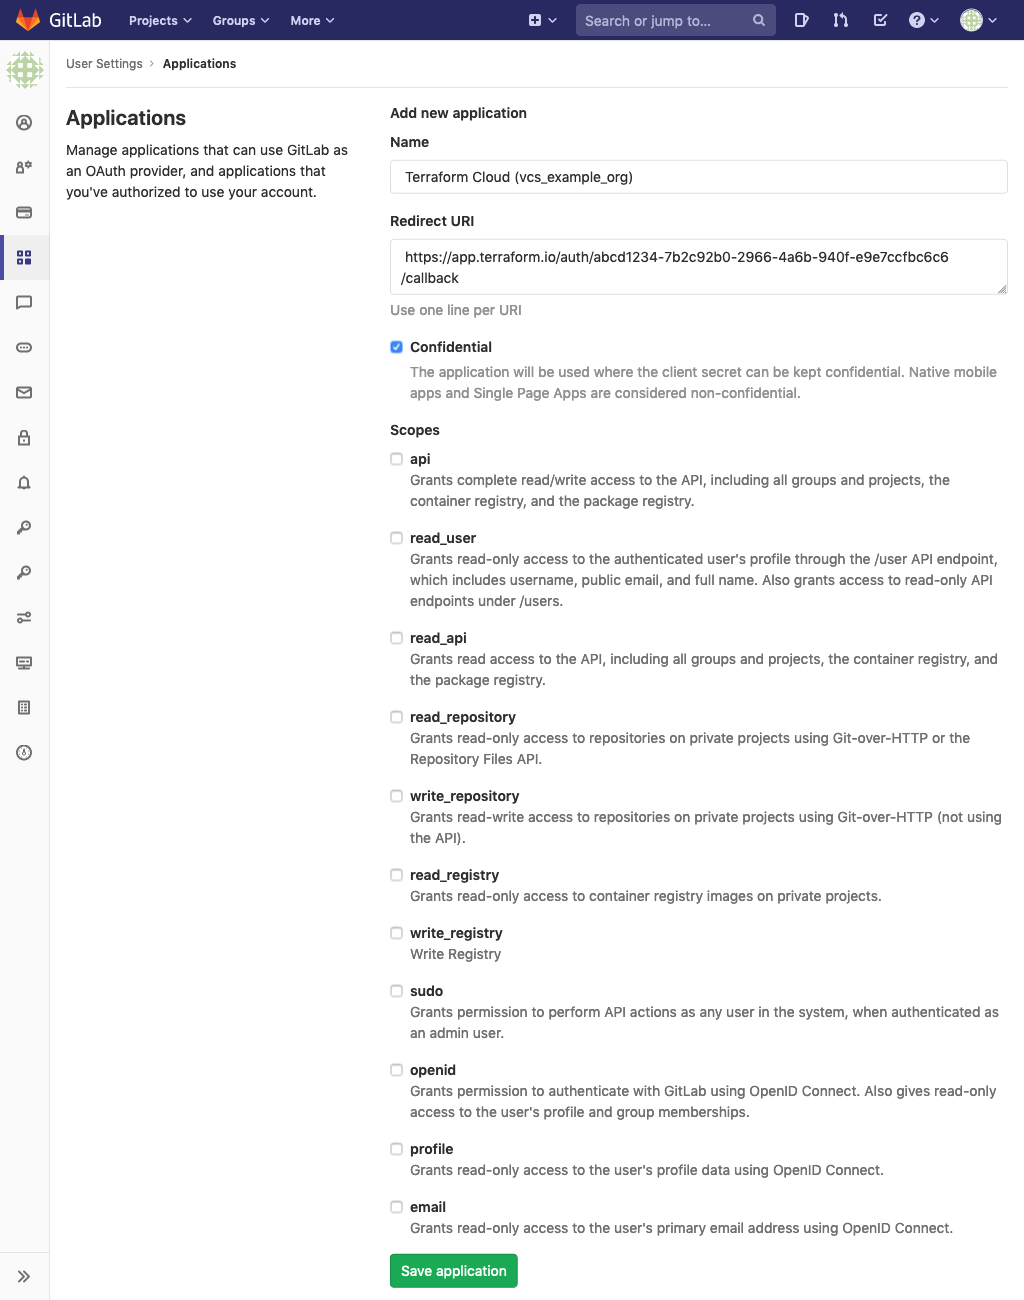
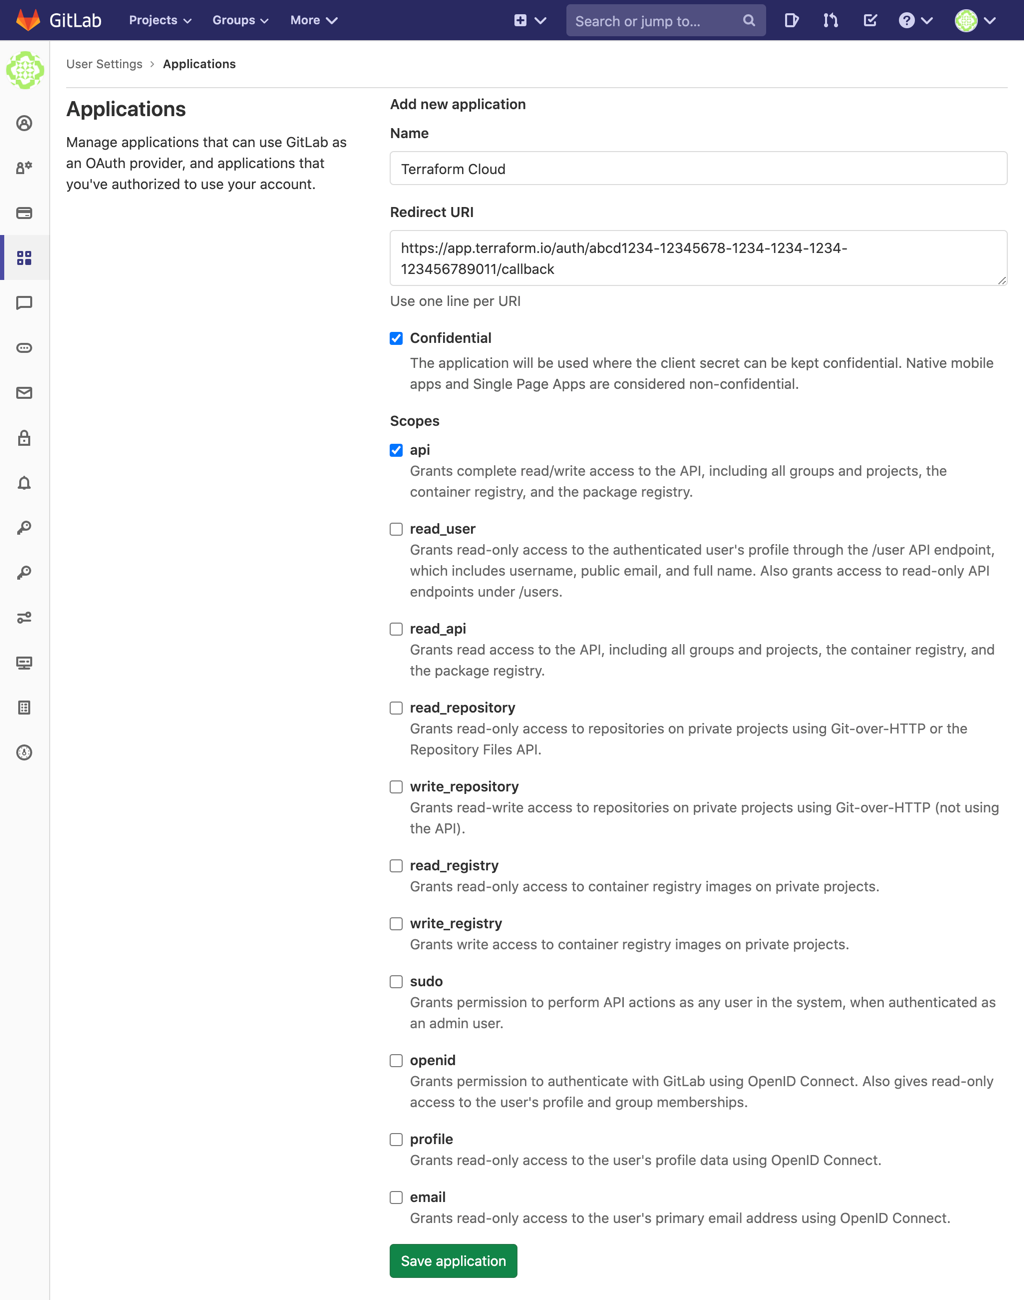
adding in scope changes

diff --git a/content/source/docs/cloud/vcs/gitlab-eece.html.md b/content/source/docs/cloud/vcs/gitlab-eece.html.md
@@ -13,12 +13,12 @@ Configuring a new VCS provider requires permission to manage VCS settings for th
 
 Connecting Terraform Cloud to your VCS involves four steps:
 
-On your VCS | On Terraform Cloud
---|--
-&nbsp; | Create a new connection in Terraform Cloud. Get redirect URI.
-Register your Terraform Cloud organization as a new app. Provide redirect URI. Get ID and key. | &nbsp;
-&nbsp;  | Provide Terraform Cloud with application ID and secret. Request VCS access.
-Approve access request. | &nbsp;
+| On your VCS                                                                                    | On Terraform Cloud                                                          |
+| ---------------------------------------------------------------------------------------------- | --------------------------------------------------------------------------- |
+| &nbsp;                                                                                         | Create a new connection in Terraform Cloud. Get redirect URI.               |
+| Register your Terraform Cloud organization as a new app. Provide redirect URI. Get ID and key. | &nbsp;                                                                      |
+| &nbsp;                                                                                         | Provide Terraform Cloud with application ID and secret. Request VCS access. |
+| Approve access request.                                                                        | &nbsp;                                                                      |
 
 The rest of this page explains the on-premise GitLab versions of these steps.
 
@@ -45,10 +45,10 @@ The rest of this page explains the on-premise GitLab versions of these steps.
 
 1. In the "Set up provider" step, fill in the **HTTP URL** and **API URL** of your GitLab Enterprise Edition or GitLab Community Edition instance, as well as an optional **Name** for this VCS connection. Click "Continue."
 
-    Field          | Value
-    ---------------|--------------------------------------------
-    HTTP URL       | `https://<GITLAB INSTANCE HOSTNAME>`
-    API URL        | `https://<GITLAB INSTANCE HOSTNAME>/api/v4`
+    | Field    | Value                                       |
+    | -------- | ------------------------------------------- |
+    | HTTP URL | `https://<GITLAB INSTANCE HOSTNAME>`        |
+    | API URL  | `https://<GITLAB INSTANCE HOSTNAME>/api/v4` |
 
     ![Terraform Cloud screenshot: add HTTP URL and API URL fields](./images/gitlab-eece-tfe-add-url-fields.png)
 
@@ -78,12 +78,12 @@ Leave the page open in a browser tab. In the next step you will copy values from
 
     Fill out the form as follows:
 
-    Field                   | Value
-    ------------------------|--------------------------------------------------
-    Name                    | Terraform Cloud (`<YOUR ORGANIZATION NAME>`)
-    Redirect URI            |`https://app.terraform.io/<YOUR CALLBACK URL>`
-    Confidential (checkbox) | ✔ (enabled)
-    Scopes (all checkboxes) | (empty)
+    | Field                   | Value                                          |
+    | ----------------------- | ---------------------------------------------- |
+    | Name                    | Terraform Cloud (`<YOUR ORGANIZATION NAME>`)   |
+    | Redirect URI            | `https://app.terraform.io/<YOUR CALLBACK URL>` |
+    | Confidential (checkbox) | ✔ (enabled)                                    |
+    | Scopes (all checkboxes) | api                                            |
 
 1. Click the "Save application" button, which creates the application and takes you to its page.
 
@@ -135,4 +135,3 @@ Most organizations will not need to add an SSH private key. However, if the orga
 ## Finished
 
 At this point, GitLab access for Terraform Cloud is fully configured, and you can create Terraform workspaces based on your organization's shared repositories.
-

diff --git a/content/source/docs/cloud/vcs/gitlab-com.html.md b/content/source/docs/cloud/vcs/gitlab-com.html.md
@@ -13,12 +13,12 @@ Configuring a new VCS provider requires permission to manage VCS settings for th
 
 Connecting Terraform Cloud to your VCS involves four steps:
 
-On your VCS                                                                    | On Terraform Cloud
---                                                                             |--
-&nbsp;                                                                         | Create a new connection in Terraform Cloud. Get redirect URI.
-Register your Terraform Cloud organization as a new app. Provide redirect URI. | &nbsp;
-&nbsp;                                                                         | Provide Terraform Cloud with application ID and secret. Request VCS access.
-Approve access request.                                                        | &nbsp;
+| On your VCS                                                                    | On Terraform Cloud                                                          |
+| ------------------------------------------------------------------------------ | --------------------------------------------------------------------------- |
+| &nbsp;                                                                         | Create a new connection in Terraform Cloud. Get redirect URI.               |
+| Register your Terraform Cloud organization as a new app. Provide redirect URI. | &nbsp;                                                                      |
+| &nbsp;                                                                         | Provide Terraform Cloud with application ID and secret. Request VCS access. |
+| Approve access request.                                                        | &nbsp;                                                                      |
 
 The rest of this page explains the GitLab.com versions of these steps.
 
@@ -65,12 +65,12 @@ Leave the page open in a browser tab. In the next step you will copy values from
 
     Fill out the form as follows:
 
-    Field                   | Value
-    ------------------------|--------------------------------------------------
-    Name                    | Terraform Cloud (`<YOUR ORGANIZATION NAME>`)
-    Redirect URI            |`https://app.terraform.io/<YOUR CALLBACK URL>`, the redirect URI you copied from Terraform Cloud
-    Confidential (checkbox) | ✔ (enabled)
-    Scopes (all checkboxes) | (empty)
+    | Field                   | Value                                                                                            |
+    | ----------------------- | ------------------------------------------------------------------------------------------------ |
+    | Name                    | Terraform Cloud (`<YOUR ORGANIZATION NAME>`)                                                     |
+    | Redirect URI            | `https://app.terraform.io/<YOUR CALLBACK URL>`, the redirect URI you copied from Terraform Cloud |
+    | Confidential (checkbox) | ✔ (enabled)                                                                                      |
+    | Scopes (all checkboxes) | api                                                                                              |
 
 4. Click the "Save application" button, which creates the application and takes you to its page.
 
@@ -120,4 +120,3 @@ Most organizations will not need to add an SSH private key. However, if the orga
 ## Finished
 
 At this point, GitLab.com access for Terraform Cloud is fully configured, and you can create Terraform workspaces based on your organization's shared repositories.
-
